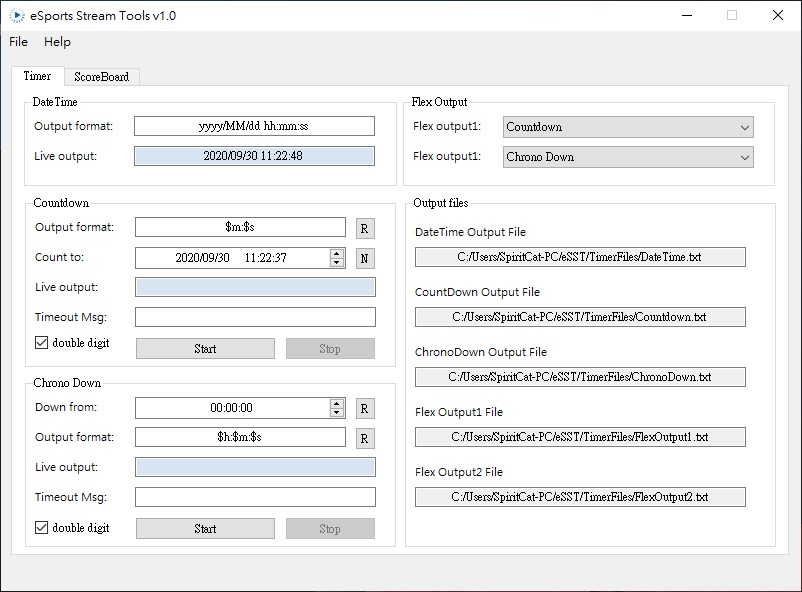
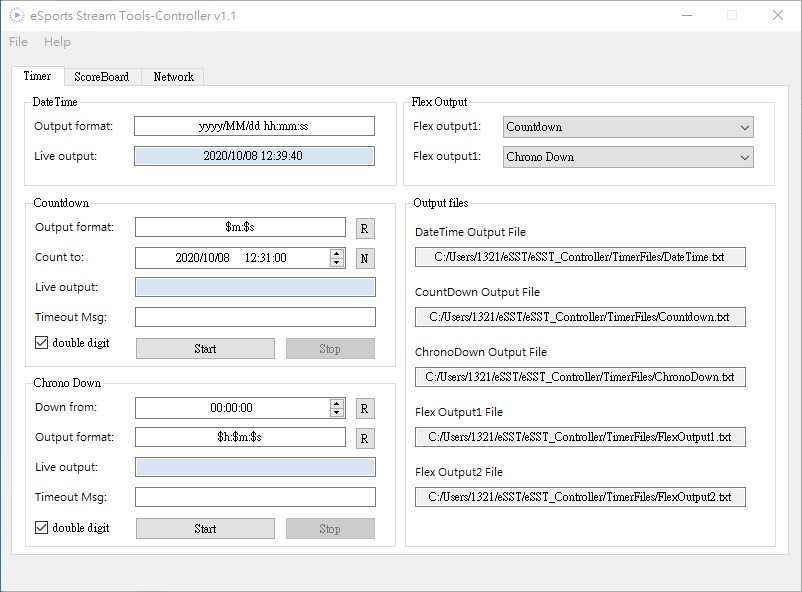
readme update

diff --git a/README.md b/README.md
@@ -9,40 +9,28 @@ Develop | [![Build Status](https://travis-ci.org/RuiChen0101/eSports-Stream-Tool
 
 ## Get started
 
- - you can download eSports-Stream-Tools from [release page](https://github.com/RuiChen0101/eSports-Stream-Tools/releases)
+ - you can download the latest version from [release page](https://github.com/RuiChen0101/eSports-Stream-Tools/releases)
 
 ## Overview
- - ### Timer
-  ![Timer](assest/Timer.jpg)
+ - ### Controller
 
-   Module | Short description
-  ------------ | -------------
-  DateTime | system date and time
-  Countdown | countdown to specified time *(Live countdown. Ex. Stream live in: 0h 30m 12s)*
-  Chrono Down | countdown from value
-  Flex output | can change source from three module above
+Main interface to controll **timer**, **scoreboard** and **network connection**. Timer and score board will output content to the file for integration with **OBS**. Moreover, with Receiver connected, match info will synchronize automatically to all receiver so player can have better awareness over current match status.
 
-  **Timer format**
+for more information, visit [Controller manual](eSST_Controller_Gui/README.md)
 
-  Token | Usage
-  ------------ | -------------
-  $s | second
-  $m | minute
-  $h | hour
-  $d | day
+   Timer | Scoreboard | Network
+  ------------ | ------------- | -------------
+  ![Timer](assest/Timer.jpg) | ![Scoreboard](assest/Scoreboard.jpg) | ![Network](assest/Network.jpg)
 
- - ### Scoreboard
-  ![Scoreboard](assest/Scoreboard.jpg)
+  - ### Receiver
 
-  Function | Short description
-  ------------ | -------------
-  Clear Score | reset both team's points
-  Clear Round | reset both team's round points
-  Point+1, Round+1 | add point or round point
-  Best of N | set max round in Best of N format (max round = (N+1)/2)
-  Use digit | display round points in digit mod
-  Round format | first char represent as pending point and second as obtained point
-  Round Invert | reverse output of round point
+Receive and display current match status controled by Controller.
+
+for more information, visit [Receiver manual](eSST_Receiver_Gui/README.md)
+
+|  Info |
+| ------------ |
+| ![Receiver](assest/Receiver.jpg) |
 
 ## Reference
  - Idea inspire by [snaz](https://github.com/JimmyAppelt/Snaz)

diff --git a/eSST_Controller_Gui/README.md b/eSST_Controller_Gui/README.md
@@ -1,0 +1,46 @@
+# eSports Stream Tools Controller
+
+Main interface to controll **timer**, **score board** and **network connection**. Timer and score board will output content to the file for integration with **OBS**. Moreover, with Receiver connected, match info will synchronize automatically to all receiver so player can have better awareness over current match status.
+
+## Overview
+ - ### Timer
+  ![Timer](../assest/Timer.jpg)
+
+   Module | Short description
+  ------------ | -------------
+  DateTime | system date and time
+  Countdown | countdown to specified time *(Live countdown. Ex. Stream live in: 0h 30m 12s)*
+  Chrono Down | countdown from value
+  Flex output | can change source from three module above
+
+  **Timer format**
+
+  Token | Usage
+  ------------ | -------------
+  $s | second
+  $m | minute
+  $h | hour
+  $d | day
+
+ - ### Scoreboard
+  ![Scoreboard](../assest/Scoreboard.jpg)
+
+  Function | Short description
+  ------------ | -------------
+  Clear Score | reset both team's points
+  Clear Round | reset both team's round points
+  Point+1, Round+1 | add point or round point
+  Best of N | set max round in Best of N format (max round = (N+1)/2)
+  Use digit | display round points in digit mod
+  Round format | first char represent as pending point and second as obtained point
+  Round Invert | reverse output of round point
+
+- ### Network
+ ![Network](../assest/Network.jpg)
+
+ Group | Short description
+ ------------ | -------------
+ Network setting | set ip of your computer, port you want to listen and password then click "Start".
+ Connection | list all connection here with name and ip, you can use "Connection kick" to disconnect receiver.
+ Broadcast Message | Message here will sync to all receiver after click "Send".
+ Status log | viewing server status log.

diff --git a/eSST_Receiver_Gui/README.md b/eSST_Receiver_Gui/README.md
@@ -1,0 +1,14 @@
+# eSports Stream Tools Receiver
+
+Receive and display current match status controled by Controller.
+
+## Overview
+  ![Receiver](../assest/Receiver.jpg)
+
+ Group | Short description
+ ------------ | -------------
+ Network setting | set ip, port and password to match Controller's setting and set yout name then click "Connect". Use "Sync" to forcing sync with Controller.
+ Timer | timer info
+ Scoreboard | score board info
+ Message | Message send by controller.
+ Files | output file as controller do.
